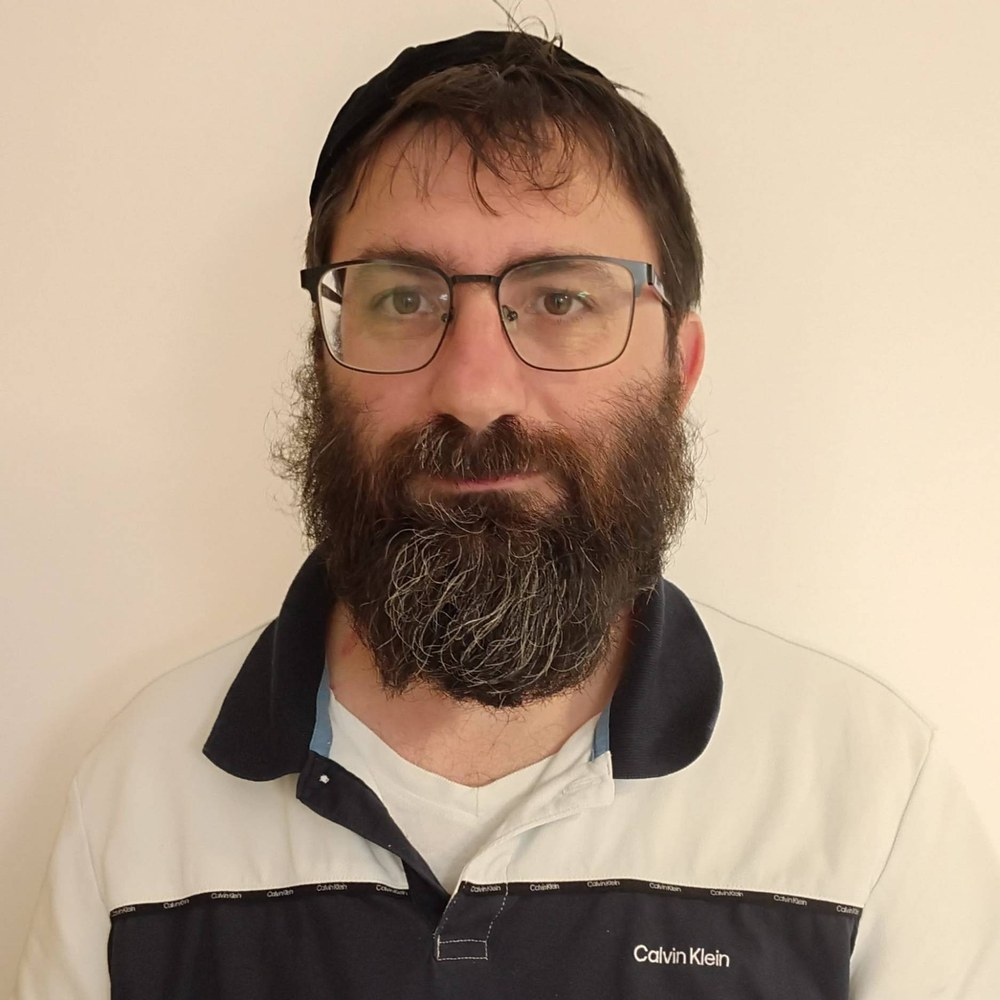
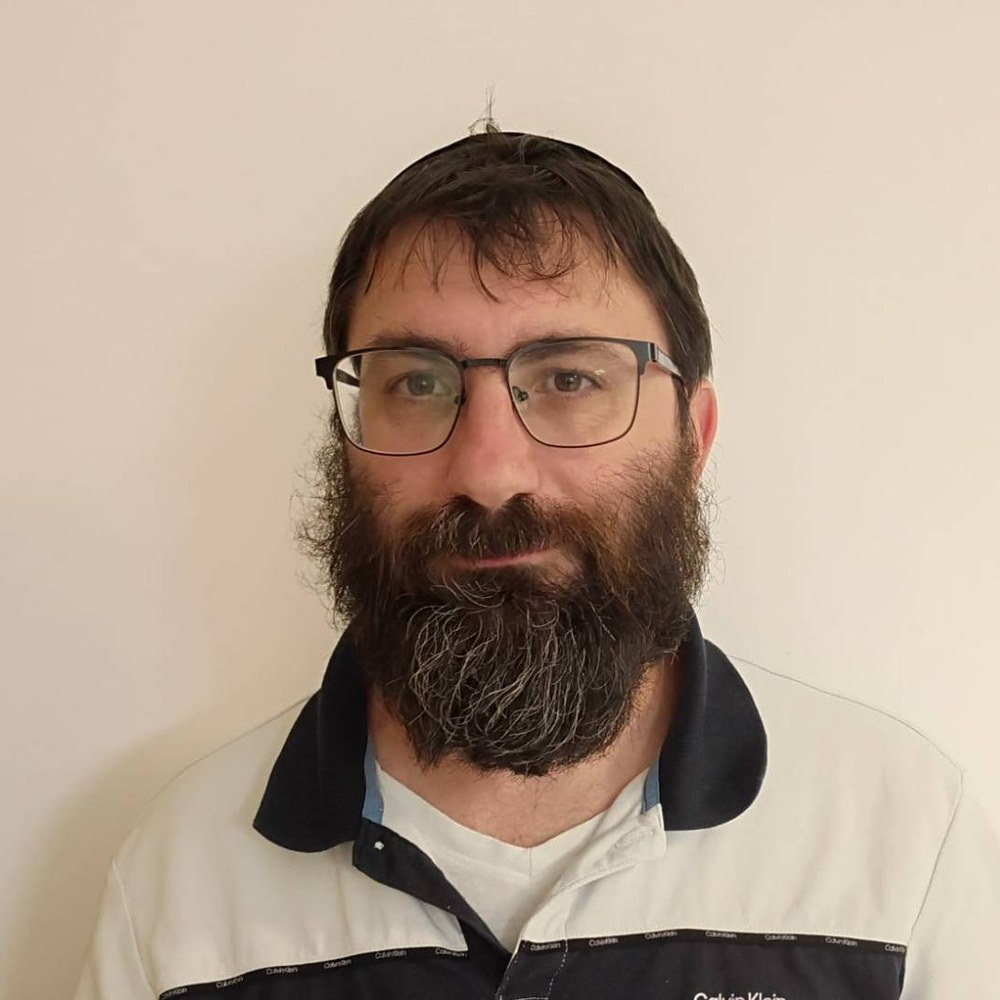
Recrop the profile photo from the original image
Claude-Session: https://claude.ai/code/session_01P2fsSpp5LJyrgm7ofHkpMm

diff --git a/index.html b/index.html
@@ -75,7 +75,7 @@
                 </div>
                 <div class="hero-image">
                     <div class="profile-photo">
-                        <img src="profile-photo.jpeg?v=2" alt="Moshe Mash, Ph.D." class="profile-img">
+                        <img src="profile-photo.jpeg?v=4" alt="Moshe Mash, Ph.D." class="profile-img">
                     </div>
                     <div class="contact-info">
                         <div class="contact-item">
